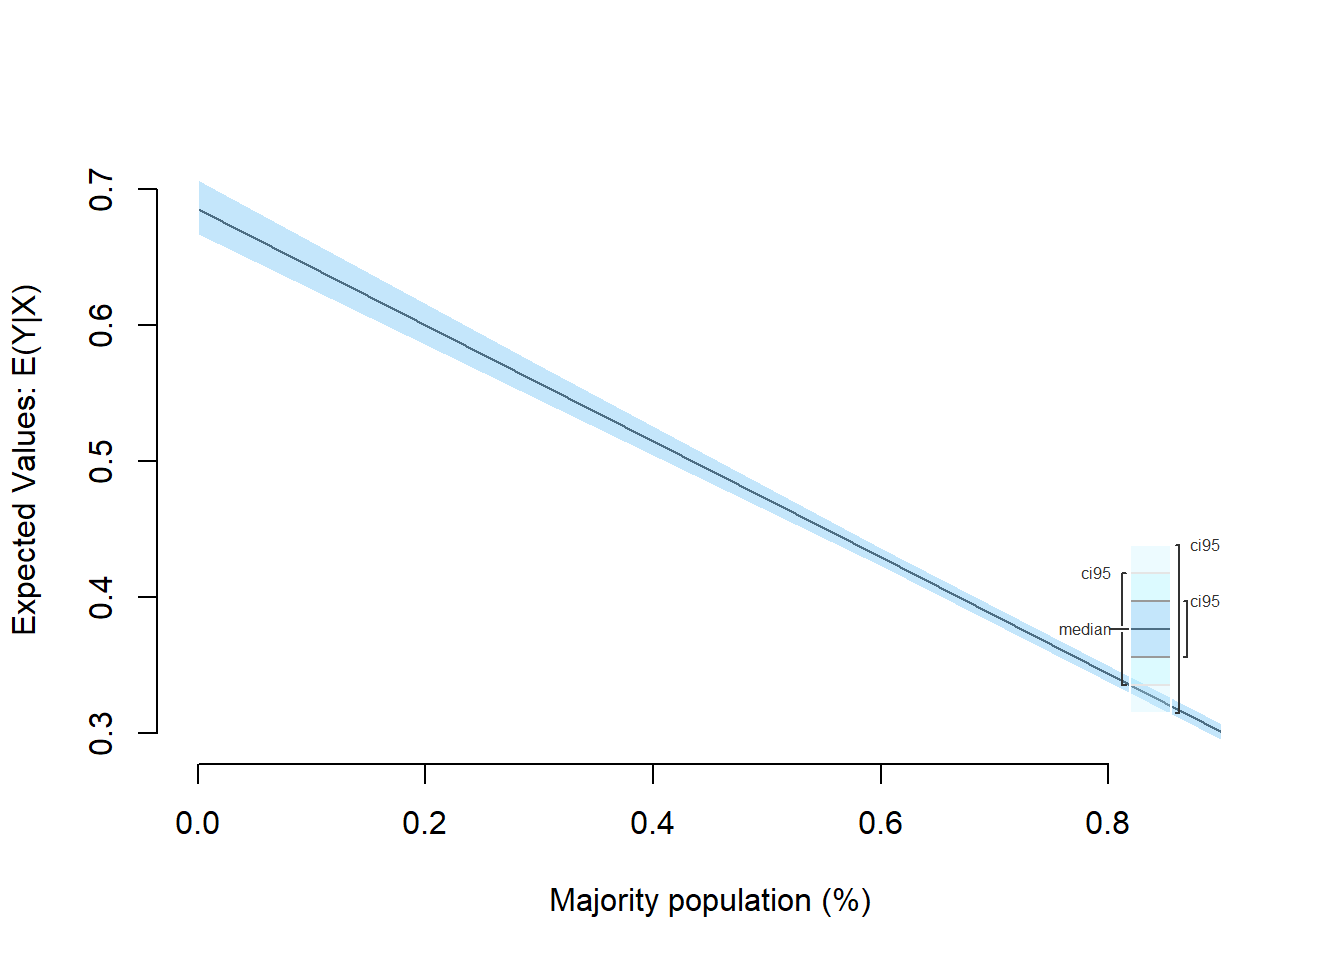
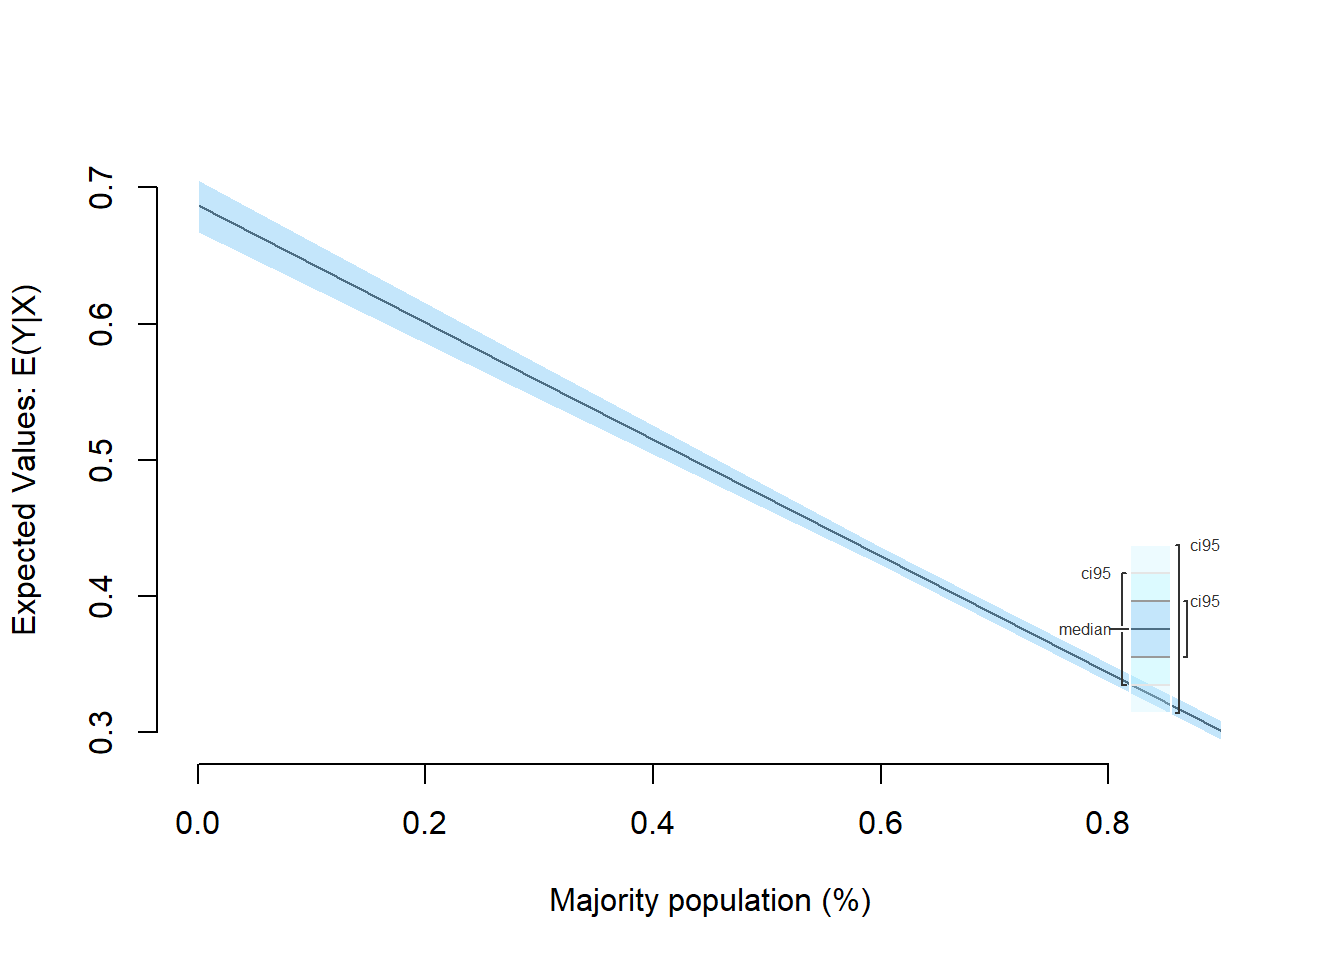
pictures

diff --git a/day2.html b/day2.html
@@ -544,11 +544,11 @@ summary(s.out)</code></pre>
 ##  sim range :
 ##  -----
 ## ev
-##        mean         sd       50%      2.5%     97.5%
-## 1 0.6861202 0.01236712 0.6854545 0.6620348 0.7111091
+##     mean         sd       50%      2.5%     97.5%
+## 1 0.6866 0.01227759 0.6869097 0.6627768 0.7104559
 ## pv
 ##           mean        sd       50%      2.5%    97.5%
-## [1,] 0.6805075 0.1730299 0.6860839 0.3461925 1.001274
+## [1,] 0.6906223 0.1674131 0.6901088 0.3429259 1.012345
 ## 
 ## 
 ## [1] 0.3
@@ -558,10 +558,10 @@ summary(s.out)</code></pre>
 ##  -----
 ## ev
 ##        mean          sd       50%      2.5%     97.5%
-## 1 0.5577625 0.008090502 0.5573214 0.5419574 0.5735908
+## 1 0.5580151 0.007998419 0.5579934 0.5424188 0.5734861
 ## pv
 ##           mean        sd       50%      2.5%     97.5%
-## [1,] 0.5540332 0.1743698 0.5544135 0.2183008 0.8761121
+## [1,] 0.5689579 0.1765655 0.5695574 0.2441437 0.9043277
 ## 
 ## 
 ## [1] 0.6
@@ -571,10 +571,10 @@ summary(s.out)</code></pre>
 ##  -----
 ## ev
 ##        mean          sd       50%      2.5%     97.5%
-## 1 0.4294048 0.004481766 0.4293841 0.4207116 0.4377913
+## 1 0.4294303 0.004556757 0.4294963 0.4207095 0.4387261
 ## pv
-##           mean        sd       50%    2.5%     97.5%
-## [1,] 0.4394454 0.1679726 0.4382298 0.11814 0.7657642
+##           mean        sd       50%       2.5%    97.5%
+## [1,] 0.4345355 0.1832108 0.4335705 0.08207022 0.791152
 ## 
 ## 
 ## [1] 0.9
@@ -583,11 +583,11 @@ summary(s.out)</code></pre>
 ##  sim range :
 ##  -----
 ## ev
-##        mean          sd     50%      2.5%     97.5%
-## 1 0.3010471 0.004103125 0.30109 0.2930469 0.3089207
+##        mean          sd       50%      2.5%     97.5%
+## 1 0.3008454 0.004594246 0.3008297 0.2921034 0.3098845
 ## pv
-##           mean        sd      50%        2.5%     97.5%
-## [1,] 0.2953366 0.1705531 0.293201 -0.04873322 0.6337005</code></pre>
+##           mean        sd       50%       2.5%     97.5%
+## [1,] 0.3040326 0.1781843 0.3036242 -0.0601122 0.6481226</code></pre>
 <pre class="r"><code>ci.plot(s.out, xlab = &quot;Majority population (%)&quot;, ci = 95)</code></pre>
 <p><img src="day2_files/figure-html/unnamed-chunk-21-1.png" width="672" /></p>
 </div>
